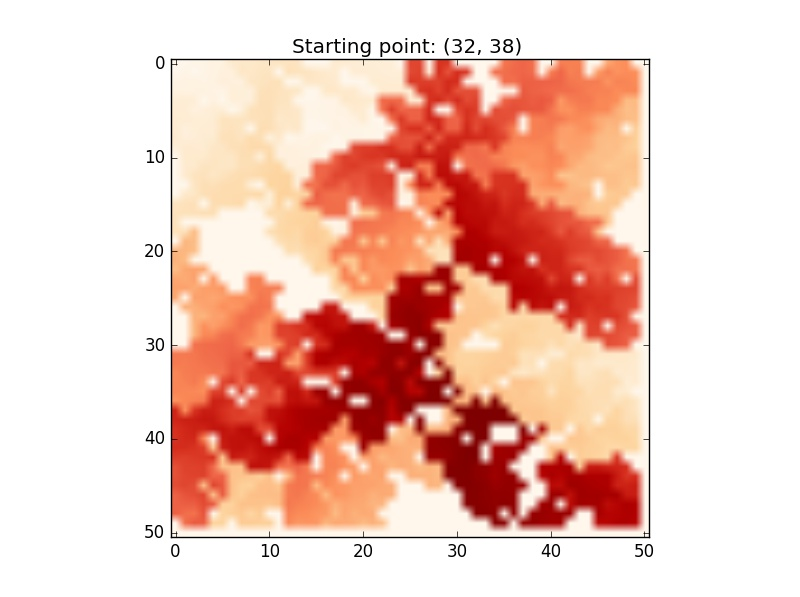
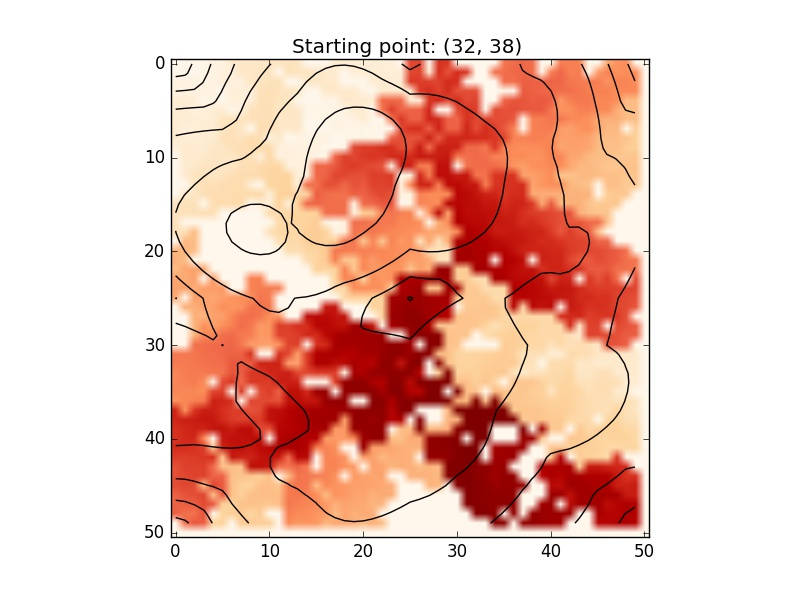
overlayed tree density contour lines with burn plot

diff --git a/fireSim.py b/fireSim.py
@@ -255,19 +255,15 @@ plot2 = plt.imshow(tmap, interpolation="bicubic", cmap=plt.get_cmap('BrBG'))
 
 plt.figure()
 plot3 = plt.imshow(tmap, interpolation='bicubic')
-clevels = np.linspace(0, np.amax(burn), num=3)
-plt.contour(burn, levels= clevels, colors ='k')
+clevels = np.linspace(0, np.amax(tmap), num=3)
+#plt.contour(burn, levels= clevels, colors ='k')
 
 
 
 plt.figure()
 plot5 = plt.imshow(burn, cmap=plt.get_cmap('OrRd'))
 plt.title("Starting point: (%d, %d) " %(startCoord[0], startCoord[1]))
-
-
-plt.figure()
-plt.contour(burn, levels = clevels)
-
+plt.contour(tmap, colors='k')
 
 
 plt.show()
